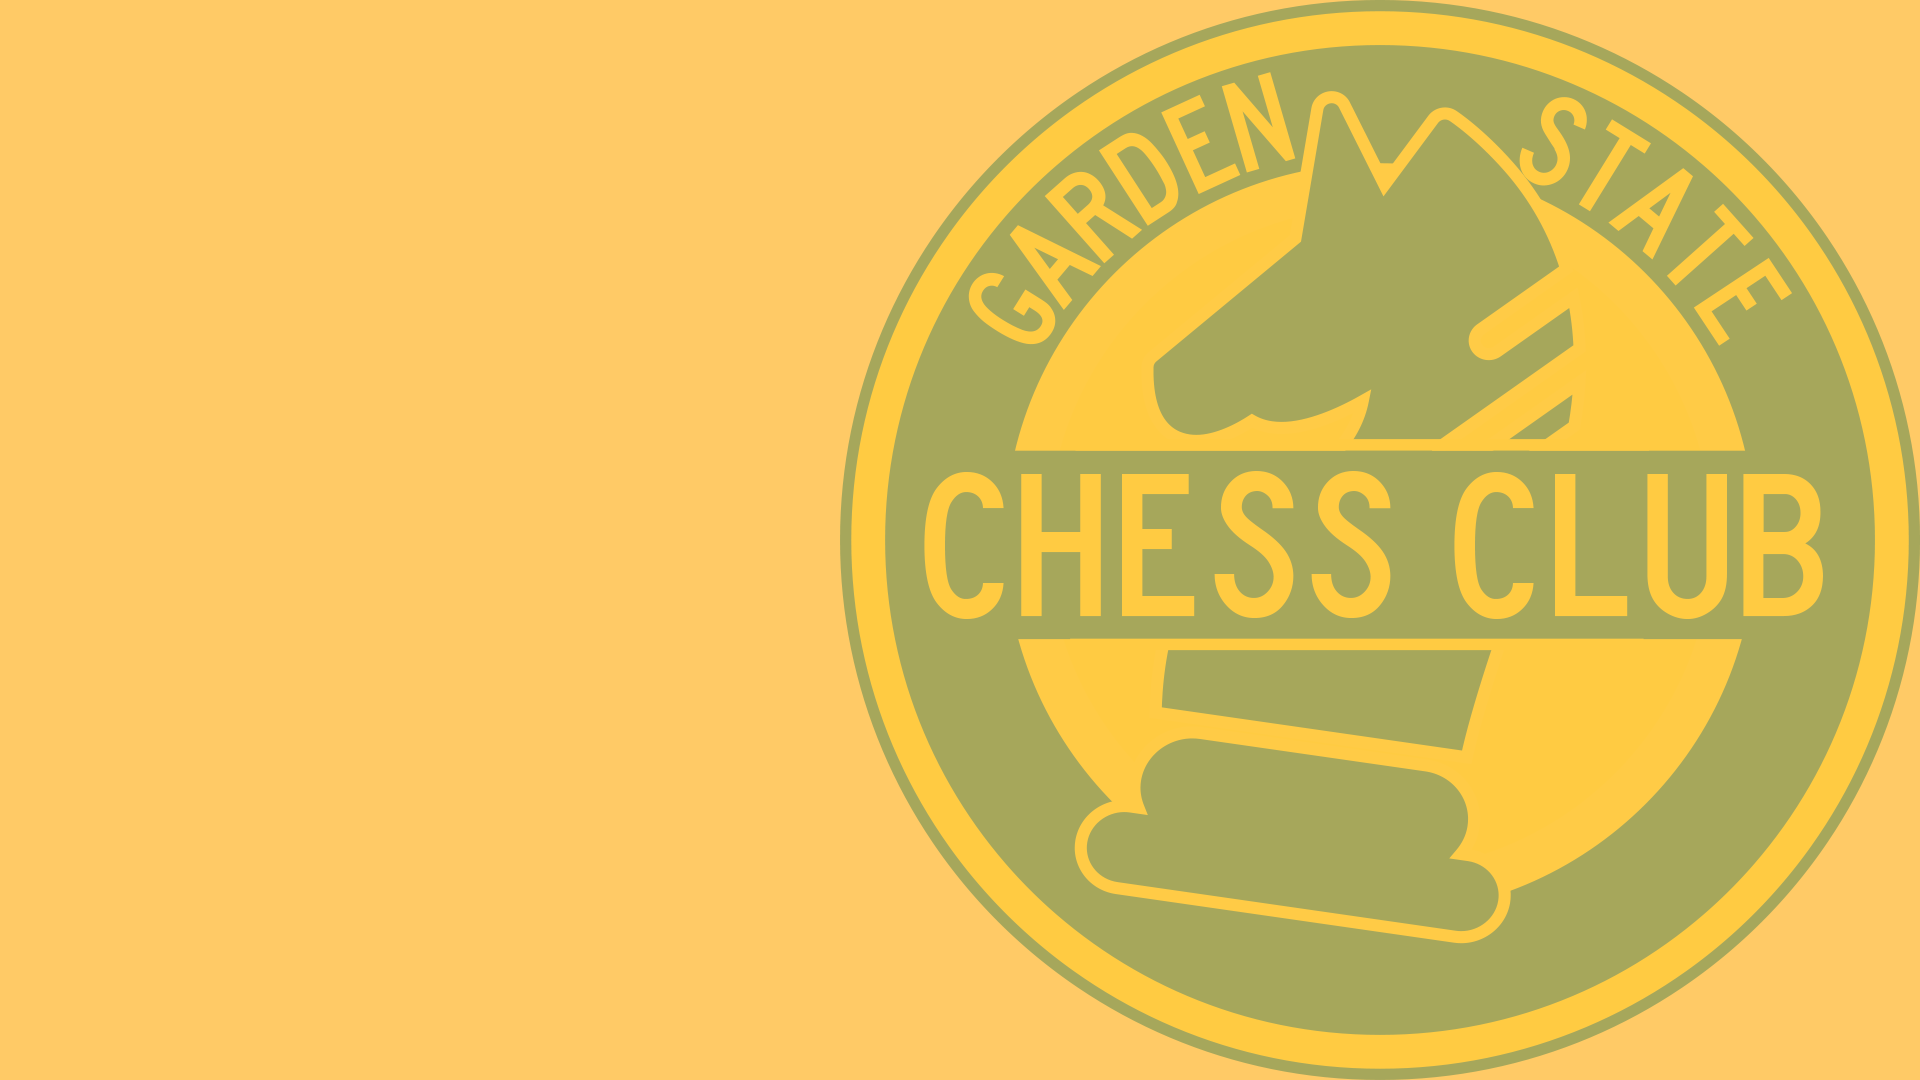
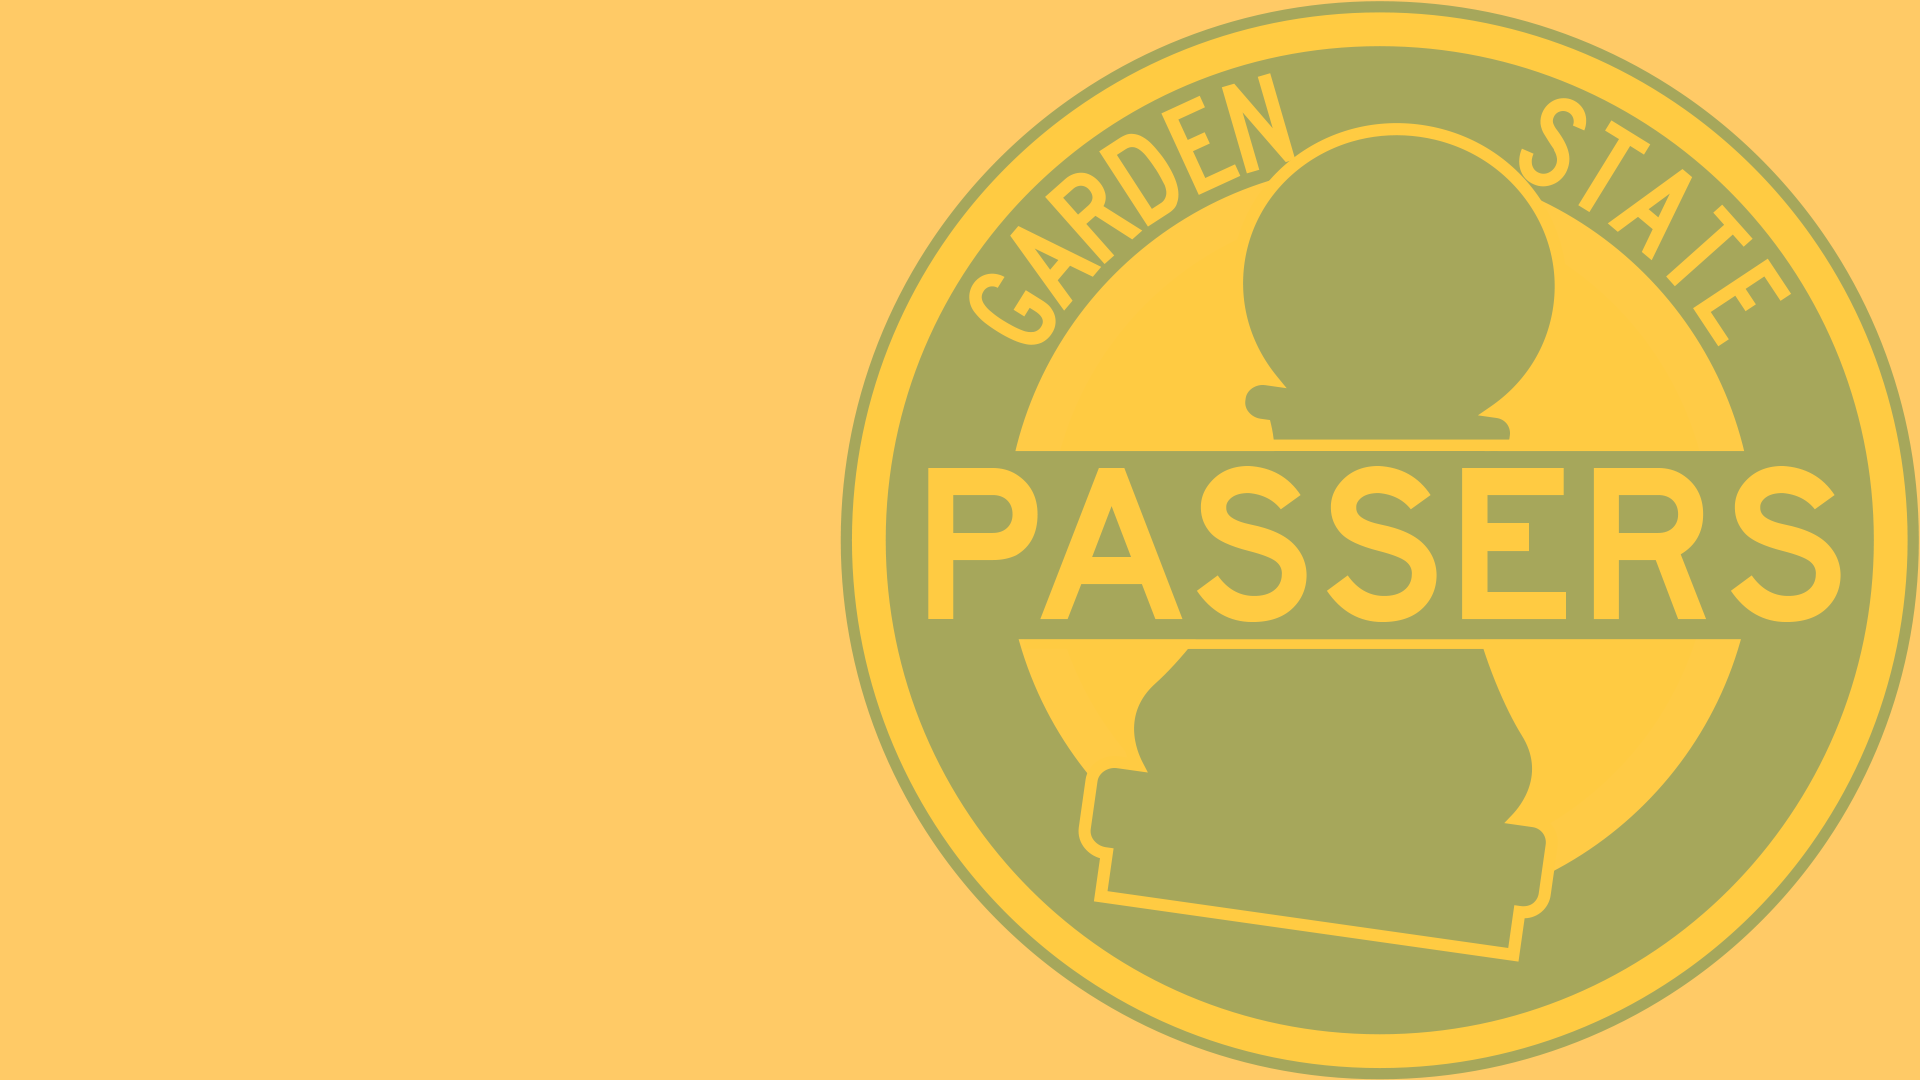
Update the team name to Garden State Passers.
TODO:
  - `Observer`.
  - Make sure results are handled on game complete. [80%]
  - Try and improve the clocks a tad bit. Cannot really fix them yet it would be nice for them to not jump back up in time.
  - Trigger `MATCH_ID=${matchId} ./state/crawler.js` to trigger when the Live button turns on.
  - Switch between rounds in the Admin viewer [??? maybe done]
  - Add a Highlight button to trigger `Stream` to fade to one of the boards and vice versa. [works except for fading]

diff --git a/stream/src/App.js b/stream/src/App.js
@@ -26,7 +26,7 @@ function ParseRoute(props) {
   const {matchId, boardNumber} = useParams();
   const requestedMatchId = matchId ? parseInt(matchId) : null;
 
-  const [match, setMatch] = useState({id: requestedMatchId});
+  const [match, setMatch] = useState(() => ({id: requestedMatchId}));
   const loadMatch = (incomingMatch) => {
     if ((!match.id && requestedMatchId === null) || incomingMatch.id === match.id) {
       setMatch(incomingMatch);
@@ -36,7 +36,6 @@ function ParseRoute(props) {
   const requestedBoardNumber = boardNumber ? parseInt(boardNumber) : null;
   const [currentBoardNumber, setCurrentBoardNumber] = useState(requestedBoardNumber);
   const updateStreamState = (incomingStreamState) => {
-    console.log('hi', requestedBoardNumber || incomingStreamState.matchId !== match.id, requestedBoardNumber, incomingStreamState.matchId, match.id);
     if (requestedBoardNumber || incomingStreamState.matchId !== match.id) {
       return;
     }

diff --git a/stream/public/index.html b/stream/public/index.html
@@ -23,7 +23,7 @@
     work correctly both with client-side routing and a non-root public URL.
     Learn how to configure a non-root public URL by running `npm run build`.
   -->
-  <title>Stream | Garden State Chess Club</title>
+  <title>Stream | Garden State Passers</title>
   <link rel="stylesheet" href="https://use.typekit.net/lbf7zfs.css">
   <link rel="stylesheet" href="https://use.fontawesome.com/releases/v5.14.0/css/all.css"
         integrity="sha384-HzLeBuhoNPvSl5KYnjx0BT+WB0QEEqLprO+NBkkk5gbc67FTaL7XIGa2w1L0Xbgc" crossorigin="anonymous">

diff --git a/admin/public/index.html b/admin/public/index.html
@@ -7,7 +7,7 @@
   <meta name="author" content="Mark Otto, Jacob Thornton, and Bootstrap contributors">
   <meta name="generator" content="Jekyll v4.1.1">
   <base href="%PUBLIC_URL%/">
-  <title>Admin Panel | Garden State Chess Club</title>
+  <title>Admin Panel | Garden State Passers</title>
   <!-- CSS only -->
   <link rel="stylesheet" href="https://stackpath.bootstrapcdn.com/bootstrap/4.5.2/css/bootstrap.min.css"
         integrity="sha384-JcKb8q3iqJ61gNV9KGb8thSsNjpSL0n8PARn9HuZOnIxN0hoP+VmmDGMN5t9UJ0Z" crossorigin="anonymous">

diff --git a/stream/src/TitleBar.js b/stream/src/TitleBar.js
@@ -6,7 +6,7 @@ function TitleBar(props) {
   const {homeTeam} = props;
 
   return <div className="TitleBar">
-    <div className="TeamName"><span>Garden State</span> Chess Club</div>
+    <div className="TeamName"><span>Garden State</span> Passers</div>
     <div className="MatchName">States Chess Cup: <span><OrDefault
       value={props.homeTeamName}/></span> vs <span><OrDefault
       value={props.awayTeamName}/></span></div>

diff --git a/admin/src/Pairings.js b/admin/src/Pairings.js
@@ -75,7 +75,7 @@ function Pairings(props) {
         <thead>
         <tr>
           <th scope="col">Board</th>
-          <th scope="col">Garden State Chess Club</th>
+          <th scope="col">Garden State Passers</th>
           <th/>
           <th scope="col" className="text-center">Result</th>
           <th/>

diff --git a/admin/src/Members.js b/admin/src/Members.js
@@ -60,7 +60,7 @@ function Members(props) {
         </Col>
         <Col><Players
           players={members}
-          teamName="Garden State Chess Club"
+          teamName="Garden State Passers"
           onSubmit={handleMemberUpdate}
           onDelete={handleMemberDelete}
         />

diff --git a/stream/README.md b/stream/README.md
@@ -1,9 +1,9 @@
 # Garden > Stream
 
-![Garden State Chess Club's full overlay](../README/stream.png)
+![Garden State Passers' full overlay](../README/stream.png)
 
-This is the actual overlay that we include inside of OBS. All it does is consume data from [`State`](../state/README.md)
-and present it in a nice fashion. All the assets in the repo as for Garden State Chess Club, so please make sure to
+This is the actual overlay that we include inside of OBS. All it does is consume data from [State](../state/README.md)
+and present it in a nice fashion. All the assets in the repo as for Garden State Passers, so please make sure to
 update that accordingly when developing an overlay for different teams. If I had planned on sharing the source code from
 the get go I would have tried to be better in making it easier to skin.
 
@@ -18,7 +18,7 @@ There are two main endpoints, each with an alias to a shorthand for the most rec
 ### Full Match `/match/:matchId`, `/`
 
 Going to just `/` will return the latest non deleted match. Both will return the main overlay which shows all four
-boards along with any other settings. All display information is handled via [`Admin`](../admin/README.md).
+boards along with any other settings. All display information is handled via [Admin](../admin/README.md).
 
 ### Board Highlight `/match/:matchId/board/:boardNumber`, `/board/:boardNumber`
 

diff --git a/README.md b/README.md
@@ -1,8 +1,8 @@
 # Garden
 
-![Garden State Chess Club's full overlay](./README/stream.png)
+![Garden State Passers' full overlay](./README/stream.png)
 
-Welcome to our stream overlay for team Garden State Chess Club. Currently we are using this as a `Browser Source` in OBS
+Welcome to our stream overlay for team Garden State Passers. Currently we are using this as a `Browser Source` in OBS
 to handle all of the match data such as scores, opponents, rounds, and host information.
 
 There is a lot of ground work to utilize the [Lichess.org API](https://lichess.org/api) to stream boards in real-time so
